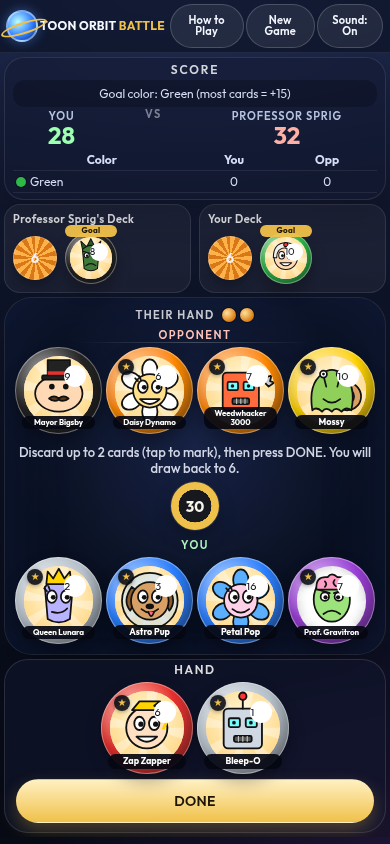
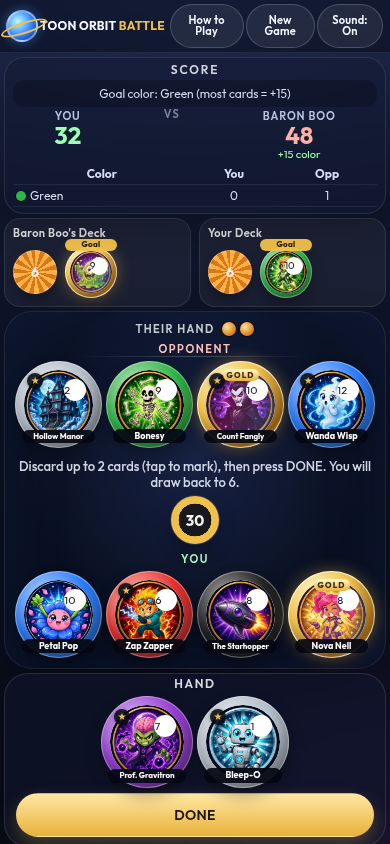
Add card portraits and cosmetic gold copies
Show each toon's image on the round cards, with the SVG art as a fallback, and deal a couple of gold foil copies that score the same as the plain card.

diff --git a/game.js b/game.js
@@ -1,6 +1,7 @@
 /* Toon Orbit Battle — game flow & UI. */
 (function () {
   const {CARDS, CARD_LIST, DECKS, COLORS} = window.TOB_CARDS;
+  const COPIES = window.TOB_COPIES;
   const E = window.TOB_ENGINE, AI = window.TOB_AI, ART = window.TOB_ART;
   const qs = new URLSearchParams(location.search);
   const AUTO = qs.has('auto'); let autoGames = Math.max(1, parseInt(qs.get('auto') || '1', 10) || 1);
@@ -27,23 +28,30 @@
   }
 
   /* ---------- card rendering ---------- */
-  function cardHTML(card, info) {
+  function cardHTML(card, info, eager) {
     const c = COLORS[card.color];
     let badge = card.pts, bcls = '';
-    if (info) {
-      if (info.knocked) { badge = '✕'; bcls = 'ko'; }
-      else { badge = info.value; bcls = info.value > card.pts ? 'up' : info.value < card.pts ? 'down' : ''; }
-    }
-    const recol = info && !info.knocked && info.color !== card.color ? `<div class="recolor" style="background:${COLORS[info.color]}"></div>` : '';
     const long = card.name.length > 11 ? ' long' : '';
-    return `<div class="card" data-id="${card.id}" style="--cc:${c}">
+    const gold = !!card.gold;
+    const playInfo = info && typeof info === 'object' ? info : null;
+    if (playInfo) {
+      if (playInfo.knocked) { badge = '✕'; bcls = 'ko'; }
+      else { badge = playInfo.value; bcls = playInfo.value > card.pts ? 'up' : playInfo.value < card.pts ? 'down' : ''; }
+    }
+    const recol2 = playInfo && !playInfo.knocked && playInfo.color !== card.color ? `<div class="recolor" style="background:${COLORS[playInfo.color]}"></div>` : '';
+    return `<div class="card${gold ? ' gold' : ''}" data-id="${card.id}" style="--cc:${c}">
       <div class="cname${long}">${card.name}</div>
-      <div class="cart">${ART.svg(card)}</div>
+      <div class="cart">${faceHTML(card, eager)}${gold ? '<div class="holo"></div><div class="spark"></div>' : ''}</div>
+      ${gold ? '<div class="goldtag">GOLD</div>' : ''}
       ${card.powers.length ? '<div class="pstar" aria-label="Has a power">★</div>' : ''}
-      ${recol}
+      ${recol2}
       <div class="cpts ${bcls}">${badge}</div>
-      ${info && info.knocked ? '<div class="kostamp">CANCELLED</div>' : ''}
+      ${playInfo && playInfo.knocked ? '<div class="kostamp">CANCELLED</div>' : ''}
     </div>`;
+  }
+  function faceHTML(card, eager) {
+    const src = 'assets/cards/' + encodeURIComponent(card.id) + '.webp';
+    return `<img class="cartimg" alt="" data-id="${card.id}" src="${src}" loading="${eager ? 'eager' : 'lazy'}" decoding="async" onerror="TOB_ART.useSvg(this)">`;
   }
   function backHTML() { return `<div class="card back"><div class="backlogo"><span>TOON</span><b>ORBIT</b></div></div>`; }
 
@@ -59,8 +67,8 @@
       return;
     }
     const notes = info ? (info.knocked ? [info.knocked] : info.notes) : [];
-    const html = `<div class="tv-card" style="--cc:${COLORS[card.color]}">
-      <div class="tv-art">${ART.svg(card)}</div>
+    const html = `<div class="tv-card${card.gold ? ' gold' : ''}" style="--cc:${COLORS[card.color]}">
+      <div class="tv-art">${faceHTML(card, true)}${card.gold ? '<div class="holo"></div><div class="spark"></div>' : ''}</div>
       <div class="tv-name">${card.name}</div>
       <div class="tv-meta"><span class="gem" style="background:${COLORS[card.color]}"></span>${cap(card.color)} · ${card.pts} pts</div>
       <div class="tv-group">${card.group}</div>
@@ -75,9 +83,14 @@
 
   /* ---------- game state ---------- */
   let G = null, timerId = null, lastPlace = 0;
+  function buildDeck(ids) {
+    const copies = ids.map(id => COPIES.makeCopy(id, {gold: false})).filter(Boolean);
+    const n = 1 + (Math.random() < 0.5 ? 1 : 0);
+    COPIES.stampGold(copies, n);
+    return E.shuffle(copies);
+  }
   function newState(pIds, oIds, oName) {
-    const mk = ids => E.shuffle(ids.map(id => CARDS[id]));
-    const pDeck = mk(pIds), oDeck = mk(oIds);
+    const pDeck = buildDeck(pIds), oDeck = buildDeck(oIds);
     const s = {
       phase: 'INTRO', oName, pDeck, oDeck, pHand: [], oHand: [], pDiscard: [], oDiscard: [],
       goalCards: {p: pDeck[11], o: oDeck[11]},
@@ -101,10 +114,10 @@
     const hidden = G.round < 2 && i >= 4;
     let inner = '';
     if (card) {
-      if (G.shown[side][i]) inner = cardHTML(card, ev.cells[side][i]);
+      if (G.shown[side][i]) inner = cardHTML(card, ev.cells[side][i], true);
       else if (side === 'p') {
         const faceDown = i === 6 && !G.phase.startsWith('PLAY');
-        inner = `<div class="pending">${cardHTML(card)}${faceDown ? '<div class="pend-tag">Face down</div>' : ''}</div>`;
+        inner = `<div class="pending">${cardHTML(card, null, true)}${faceDown ? '<div class="pend-tag">Face down</div>' : ''}</div>`;
       }
       else inner = backHTML();
     } else inner = `<div class="slotnum">${i + 1}</div>`;
@@ -123,7 +136,7 @@
     const hand = $('#hand'); hand.innerHTML = '';
     G.pHand.forEach((c, i) => {
       const w = el('div', 'handcard' + (G.selected === i ? ' sel' : '') + (G.discardSel.has(i) ? ' disc' : ''));
-      w.innerHTML = cardHTML(c) + (G.discardSel.has(i) ? '<div class="disc-tag">DISCARD</div>' : '');
+      w.innerHTML = cardHTML(c, null, true) + (G.discardSel.has(i) ? '<div class="disc-tag">DISCARD</div>' : '');
       w.dataset.idx = i; w.draggable = G.phase.startsWith('PLAY');
       hand.appendChild(w);
     });
@@ -133,10 +146,22 @@
       const deck = side === 'p' ? G.pDeck : G.oDeck, gc = G.goalCards[side], inDeck = deck.includes(gc);
       return `<div class="deckbox"><div class="dlabel">${label}</div>
         <div class="deckstack">${deck.length ? `<div class="stack">${deck.length}</div>` : '<div class="stack empty">0</div>'}
-        <div class="goalcard ${inDeck ? '' : 'drawn'}" data-goal="${side}">${cardHTML(gc)}<div class="goaltag">Goal</div></div></div></div>`;
+        <div class="goalcard ${inDeck ? '' : 'drawn'}" data-goal="${side}">${cardHTML(gc, null, true)}<div class="goaltag">Goal</div></div></div></div>`;
     };
     $('#decks').innerHTML = deckBox('o', G.oName + "'s Deck") + deckBox('p', 'Your Deck');
     renderScore(ev);
+    const live = [].concat(G.pHand, G.oHand, G.boards.p, G.boards.o, [G.goalCards.p, G.goalCards.o]);
+    preloadArt(live);
+  }
+  const preloadedArt = new Set();
+  function preloadArt(cards) {
+    cards.forEach(c => {
+      if (!c || !c.id || preloadedArt.has(c.id)) return;
+      preloadedArt.add(c.id);
+      const img = new Image();
+      img.decoding = 'async';
+      img.src = 'assets/cards/' + encodeURIComponent(c.id) + '.webp';
+    });
   }
   function renderScore(ev) {
     const tg = G.targets;
@@ -380,7 +405,28 @@
         <div class="dname">${d.name}</div><div class="dcolors">${[...new Set(d.cards.map(id => CARDS[id].color))].map(c => `<span class="gem" style="background:${COLORS[c]}"></span>`).join('')}</div></div>`).join('')}
         <div class="deckpick ${cd.length === 12 ? '' : 'dim'}" data-deck="custom"><div class="fan">${cd.slice(0, 3).map(id => cardHTML(CARDS[id])).join('') || '<div class="card back"><div class="backlogo"><span>MY</span><b>DECK</b></div></div>'}</div>
         <div class="dname">My Deck</div><div class="dcolors">${cd.length}/12 cards</div></div></div>
-      <div class="go-btns"><button class="btn" id="btnBuild">DECK BUILDER</button><button class="btn" id="btnRules2">HOW TO PLAY</button></div></div>`;
+      <div class="go-btns"><button class="btn" id="btnCollection">COLLECTION</button><button class="btn" id="btnBuild">DECK BUILDER</button><button class="btn" id="btnRules2">HOW TO PLAY</button></div></div>`;
+  }
+  let collectionGold = false;
+  function showCollection() {
+    stopTimer();
+    hidePreview();
+    const ov = $('#overlay'); ov.classList.remove('hidden');
+    const draw = () => {
+      const cards = CARD_LIST.map(c => COPIES.makeCopy(c.id, {gold: collectionGold}));
+      ov.innerHTML = `<div class="panel collection">
+        <div class="sb-title">Collection</div>
+        <div class="tag">Gold copies are cosmetic. Every toon can have one, and they play the same.</div>
+        <label class="goldtoggle"><input type="checkbox" id="goldView" ${collectionGold ? 'checked' : ''}> View gold copies</label>
+        <div class="cgrid">${cards.map(c => `<div class="ccard" data-cid="${c.id}">${cardHTML(c)}</div>`).join('')}</div>
+        <div class="go-btns"><button class="btn" id="btnBack">BACK</button></div></div>`;
+      $('#goldView').onchange = () => { collectionGold = $('#goldView').checked; draw(); };
+      $('#btnBack').onclick = showDeckSelect;
+      ov.querySelectorAll('.ccard').forEach(node => {
+        node.onclick = (ev) => { ev.stopPropagation(); inspect(COPIES.makeCopy(node.dataset.cid, {gold: collectionGold})); };
+      });
+    };
+    draw();
   }
   function showBuilder() {
     let sel = customDeck();
@@ -417,8 +463,8 @@
   /* ---------- events ---------- */
   document.addEventListener('click', e => {
     const pop = $('#preview');
-    const outsideSheet = pop && !pop.classList.contains('hidden') && !e.target.closest('.preview-sheet');
-    if (outsideSheet && e.target.id !== 'previewBackdrop') pop.classList.add('hidden');
+    const keep = e.target.closest('.preview-sheet, .handcard, .ccard, .card, .goalcard');
+    if (pop && !pop.classList.contains('hidden') && !keep) pop.classList.add('hidden');
     const t = e.target.closest('button, .handcard, .slot, .deckpick, .goalcard');
     if (!t) return;
     if (t.id === 'btnReady') return finishPlay(false);
@@ -431,6 +477,7 @@
     if (t.id === 'btnPick' || t.id === 'btnNew') return showDeckSelect();
     if (t.id === 'btnBoard') { $('#overlay').classList.add('hidden'); return; }
     if (t.id === 'btnBuild') return showBuilder();
+    if (t.id === 'btnCollection') return showCollection();
     if (t.id === 'btnRules' || t.id === 'btnRules2') return showRules();
     if (t.id === 'btnClose') { if (G && G.phase !== 'OVER') $('#overlay').classList.add('hidden'); else showDeckSelect(); return; }
     if (t.id === 'btnSound') { soundOn = !soundOn; t.textContent = 'Sound: ' + (soundOn ? 'On' : 'Off'); return; }
@@ -486,6 +533,29 @@
     inspect(CARDS[c.dataset.id], info);
   });
 
+  window.TOB.renderCopy = cardHTML;
+  if (matchMedia('(hover: hover) and (pointer: fine)').matches) {
+    let tracked = null;
+    document.addEventListener('pointermove', e => {
+      const card = e.target.closest && e.target.closest('.card.gold, .tv-card.gold');
+      if (tracked && tracked !== card) tracked.classList.remove('track');
+      tracked = card || null;
+      if (!card) return;
+      const r = card.getBoundingClientRect();
+      card.style.setProperty('--hx', ((e.clientX - r.left) / r.width * 100).toFixed(1));
+      card.style.setProperty('--hy', ((e.clientY - r.top) / r.height * 100).toFixed(1));
+      card.classList.add('track');
+    }, {passive: true});
+  } else if (!matchMedia('(prefers-reduced-motion: reduce)').matches) {
+    window.addEventListener('deviceorientation', e => {
+      if (e.gamma == null) return;
+      const x = Math.max(0, Math.min(100, 50 + e.gamma));
+      const y = Math.max(0, Math.min(100, 50 + (e.beta || 0) / 2));
+      document.documentElement.style.setProperty('--hx', x.toFixed(1));
+      document.documentElement.style.setProperty('--hy', y.toFixed(1));
+      document.documentElement.classList.add('tilt');
+    }, {passive: true});
+  }
   inspect(null);
   if (AUTO) quickStart(qs.get('deck') || null); else showDeckSelect();
 })();

diff --git a/style.css b/style.css
@@ -279,3 +279,34 @@ body::before { content: ""; position: fixed; inset: 0; pointer-events: none; opa
 @media (max-width: 360px) {
   .slot, .handcard { min-width: 0; }
 }
+.cartimg { width: 100%; height: 100%; object-fit: cover; display: block; border-radius: 50%; }
+.card.gold {
+  background: radial-gradient(circle at 32% 24%, #fff6cc, #f0c14a 40%, #8d5a10 74%, #ffe7a3);
+  box-shadow: inset 0 0 0 1px rgba(255,255,255,.7), 0 0 16px rgba(240, 193, 74, .4), 0 8px 16px rgba(0,0,0,.28);
+}
+.goldtag { position: absolute; z-index: 5; left: 50%; top: 9%; transform: translateX(-50%); pointer-events: none;
+  font: 800 8px/1 "Outfit", system-ui, sans-serif; letter-spacing: .14em; color: #3a2504;
+  background: linear-gradient(#fff8d2, #e8b23a); border-radius: 999px; padding: 2px 4px; }
+.fan .goldtag, .goalcard .goldtag { display: none; }
+.holo { position: absolute; inset: -30%; pointer-events: none; border-radius: 50%; mix-blend-mode: screen; opacity: .55;
+  background: linear-gradient(115deg, transparent 10%, rgba(255, 70, 160, .55) 28%, rgba(80, 230, 255, .5) 46%, rgba(255, 240, 90, .55) 64%, rgba(170, 90, 255, .45) 82%, transparent 100%);
+  background-size: 220% 220%; animation: sheen 5.5s ease-in-out infinite; }
+.spark { position: absolute; inset: 0; pointer-events: none; border-radius: 50%;
+  background-image: radial-gradient(circle, #fff 0 1px, transparent 1.8px), radial-gradient(circle, #fff 0 1px, transparent 1.8px), radial-gradient(circle, #fff 0 .8px, transparent 1.5px);
+  background-position: 28% 22%, 68% 58%, 46% 74%; background-repeat: no-repeat; opacity: .85; animation: twinkle 2.6s ease-in-out infinite; }
+.card.gold.track .holo, html.tilt .card.gold .holo, .tv-card.gold.track .holo, html.tilt .tv-card.gold .holo {
+  animation: none; background-position: calc(var(--hx, 40) * 1%) calc(var(--hy, 40) * 1%); }
+@keyframes sheen { 0% { background-position: 0% 40%; } 50% { background-position: 100% 60%; } 100% { background-position: 0% 40%; } }
+@keyframes twinkle { 50% { opacity: .2; } }
+.tv-art { position: relative; }
+.tv-art .cartimg { width: 100%; height: 100%; object-fit: cover; border-radius: 50%; }
+.tv-card.gold { border-color: #e8b23a; }
+.tv-card.gold .tv-art { width: 220px; height: 220px; border: none;
+  background: radial-gradient(circle at 32% 24%, #fff6cc, #f0c14a 42%, #8d5a10); box-shadow: 0 0 22px rgba(240, 193, 74, .5); }
+.goldtoggle { display: inline-flex; align-items: center; gap: 8px; font-weight: 600; margin: 4px 0 8px; }
+.cgrid { display: grid; grid-template-columns: repeat(auto-fill, minmax(96px, 1fr)); gap: 12px; max-width: 920px; margin: 8px auto 12px; }
+.ccard { cursor: pointer; min-height: 44px; }
+@media (prefers-reduced-motion: reduce) {
+  .holo, .spark { animation: none; }
+  .holo { opacity: .35; background-position: 40% 40%; }
+}

diff --git a/copies.js b/copies.js
@@ -1,0 +1,34 @@
+/* Card copies and rarity. A copy is a definition plus cosmetic fields.
+   Gold does not change rules or scoring. A future pack opener can push
+   {id, gold, uid} records through makeCopy and saveCollection. */
+(function (root) {
+  let seq = 1;
+  function makeCopy(id, opts) {
+    opts = opts || {};
+    const def = root.TOB_CARDS.CARDS[id];
+    if (!def) return null;
+    const copy = Object.assign({}, def);
+    copy.gold = !!opts.gold;
+    copy.uid = opts.uid || ('c' + (seq++));
+    return copy;
+  }
+  function stampGold(copies, n) {
+    const order = copies.map((_, i) => i);
+    for (let i = order.length - 1; i > 0; i--) {
+      const j = Math.floor(Math.random() * (i + 1));
+      const t = order[i]; order[i] = order[j]; order[j] = t;
+    }
+    const count = Math.max(0, Math.min(n || 0, copies.length));
+    for (let k = 0; k < count; k++) copies[order[k]].gold = true;
+    return copies;
+  }
+  function loadCollection() {
+    try { return JSON.parse(localStorage.getItem('tob_collection') || 'null'); }
+    catch (e) { return null; }
+  }
+  function saveCollection(data) {
+    try { localStorage.setItem('tob_collection', JSON.stringify(data)); }
+    catch (e) { /* storage unavailable */ }
+  }
+  root.TOB_COPIES = {makeCopy, stampGold, loadCollection, saveCollection};
+})(this);

diff --git a/art.js b/art.js
@@ -112,5 +112,13 @@
     let body = a.kind ? object(a.kind) : back(a) + head(a) + eyes(a.eyes) + mouth(a.mouth) + front(a);
     return `<svg viewBox="0 0 100 100" xmlns="http://www.w3.org/2000/svg" preserveAspectRatio="xMidYMid slice">${bg}${body}</svg>`;
   }
-  root.TOB_ART = {svg};
+  function useSvg(img) {
+    const id = img && img.getAttribute && img.getAttribute('data-id');
+    const card = root.TOB_CARDS && root.TOB_CARDS.CARDS[id];
+    if (!card) { if (img) img.remove(); return; }
+    const holder = document.createElement('div');
+    holder.innerHTML = svg(card);
+    if (holder.firstChild) img.replaceWith(holder.firstChild);
+  }
+  root.TOB_ART = {svg, useSvg};
 })(this);

diff --git a/index.html b/index.html
@@ -62,6 +62,7 @@
   </div>
 </div>
 <script src="cards.js"></script>
+<script src="copies.js"></script>
 <script src="engine.js"></script>
 <script src="ai.js"></script>
 <script src="art.js"></script>

diff --git a/README.md b/README.md
@@ -5,3 +5,13 @@ Toon Orbit Battle is an original card battle game for one player against a compu
 Open `index.html` in a browser to play. No install or build step is required. Cards are round discs. On a phone, the same page fits the screen and can be added to the home screen.
 
 The published game is at https://mjmasters91.github.io/toon-orbit-battle/.
+
+## Adding a card
+
+1. Add one object in `cards.js` (inside the list passed to `add`). Give it a unique `id`, plus `name`, `char`, `group`, `pts`, `color`, `features`, `power`, `powers`, and an `art` fallback used only when no image is available. Do not create a second entry for a gold version.
+2. Add the face image at `assets/cards/<id>.webp`. Use a 512×512 picture with the character centered on dark navy. The game clips it to the round card.
+3. Reload `index.html`. The card shows up in the deck builder and the Collection screen. To put it in a prebuilt deck, add its `id` to that deck's `cards` array in `cards.js`.
+
+If `assets/cards/<id>.webp` is missing or fails to load, the card face falls back to the original SVG drawing from `art.js`. The name banner, point badge, and power star stay on top of either face.
+
+Gold copies are cosmetic. A copy is the card definition plus `{gold: true}` (see `copies.js`). They score the same as the plain card. Each prebuilt deck deals one or two gold copies at random. Collection, under the deck menu, can show every card's gold look.
